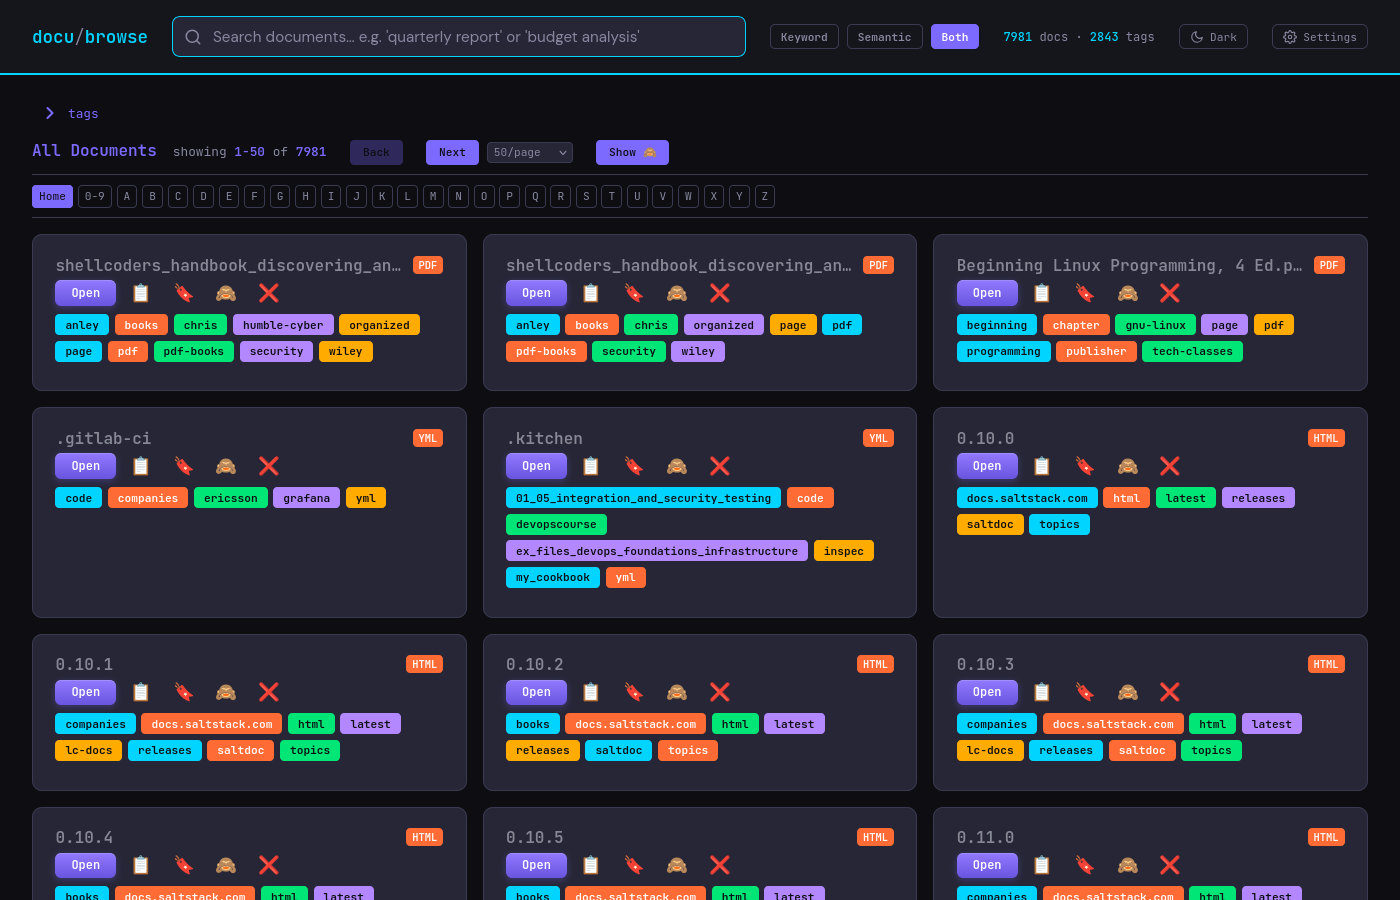
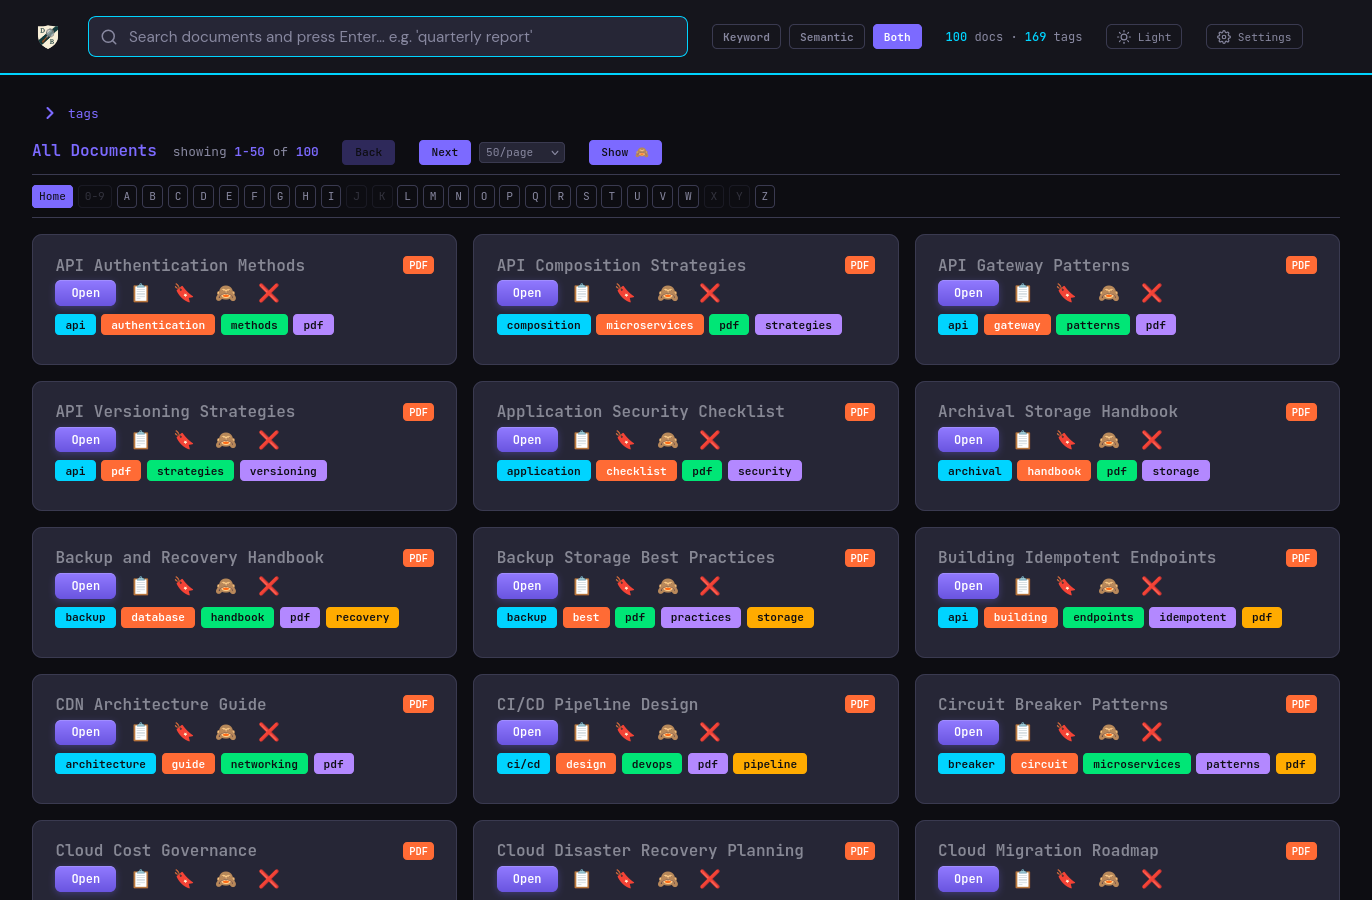
Add Product Hunt badge to all READMEs; refresh screenshots with clean demo data

diff --git a/README-ja.md b/README-ja.md
@@ -6,6 +6,8 @@
 
 <a name="top"></a>
 
+<a href="https://www.producthunt.com/products/docubrowser?embed=true&amp;utm_source=badge-featured&amp;utm_medium=badge&amp;utm_campaign=badge-docubrowser" target="_blank" rel="noopener noreferrer"><img alt="DocuBrowser - Finally search your files by meaning. 100% local, 100% yours | Product Hunt" width="250" height="54" src="https://api.producthunt.com/widgets/embed-image/v1/featured.svg?post_id=1250608&amp;theme=light&amp;t=1789413804133"></a>
+
 Linux（RPM・DEB・tarball）、Windows（zip）、macOS（dmg）向けにパッケージ化されています。
 インターフェースは安定しており、可能な限り破壊的変更を避けています。
 

diff --git a/README-ko.md b/README-ko.md
@@ -6,6 +6,8 @@
 
 <a name="top"></a>
 
+<a href="https://www.producthunt.com/products/docubrowser?embed=true&amp;utm_source=badge-featured&amp;utm_medium=badge&amp;utm_campaign=badge-docubrowser" target="_blank" rel="noopener noreferrer"><img alt="DocuBrowser - Finally search your files by meaning. 100% local, 100% yours | Product Hunt" width="250" height="54" src="https://api.producthunt.com/widgets/embed-image/v1/featured.svg?post_id=1250608&amp;theme=light&amp;t=1789413804133"></a>
+
 Linux(RPM·DEB·tarball), Windows(zip), macOS(dmg)용으로 패키징되어 있습니다.
 인터페이스는 안정적이며, 가능한 한 파괴적 변경을 피합니다.
 

diff --git a/README-zh-hant.md b/README-zh-hant.md
@@ -6,6 +6,8 @@
 
 <a name="top"></a>
 
+<a href="https://www.producthunt.com/products/docubrowser?embed=true&amp;utm_source=badge-featured&amp;utm_medium=badge&amp;utm_campaign=badge-docubrowser" target="_blank" rel="noopener noreferrer"><img alt="DocuBrowser - Finally search your files by meaning. 100% local, 100% yours | Product Hunt" width="250" height="54" src="https://api.producthunt.com/widgets/embed-image/v1/featured.svg?post_id=1250608&amp;theme=light&amp;t=1789413804133"></a>
+
 為 Linux（RPM、DEB、tarball）、Windows（zip）和 macOS（dmg）打包。
 介面保持穩定；在可能的情況下避免破壞性變更。
 

diff --git a/README-zh.md b/README-zh.md
@@ -6,6 +6,8 @@
 
 <a name="top"></a>
 
+<a href="https://www.producthunt.com/products/docubrowser?embed=true&amp;utm_source=badge-featured&amp;utm_medium=badge&amp;utm_campaign=badge-docubrowser" target="_blank" rel="noopener noreferrer"><img alt="DocuBrowser - Finally search your files by meaning. 100% local, 100% yours | Product Hunt" width="250" height="54" src="https://api.producthunt.com/widgets/embed-image/v1/featured.svg?post_id=1250608&amp;theme=light&amp;t=1789413804133"></a>
+
 为 Linux（RPM、DEB、tarball）、Windows（zip）和 macOS（dmg）打包。
 接口保持稳定；在可能的情况下避免破坏性变更。
 

diff --git a/README.md b/README.md
@@ -6,6 +6,8 @@
 
 <a name="top"></a>
 
+<a href="https://www.producthunt.com/products/docubrowser?embed=true&amp;utm_source=badge-featured&amp;utm_medium=badge&amp;utm_campaign=badge-docubrowser" target="_blank" rel="noopener noreferrer"><img alt="DocuBrowser - Finally search your files by meaning. 100% local, 100% yours | Product Hunt" width="250" height="54" src="https://api.producthunt.com/widgets/embed-image/v1/featured.svg?post_id=1250608&amp;theme=light&amp;t=1789413804133"></a>
+
 Packaged for Linux (RPM, DEB, tarball), Windows (zip), and macOS (dmg).
 Interfaces are stable; breaking changes are avoided where possible.
 
